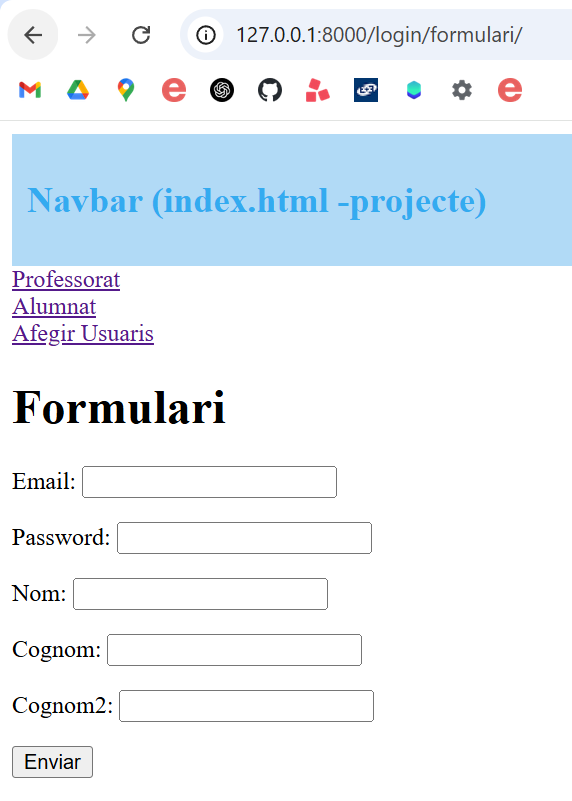
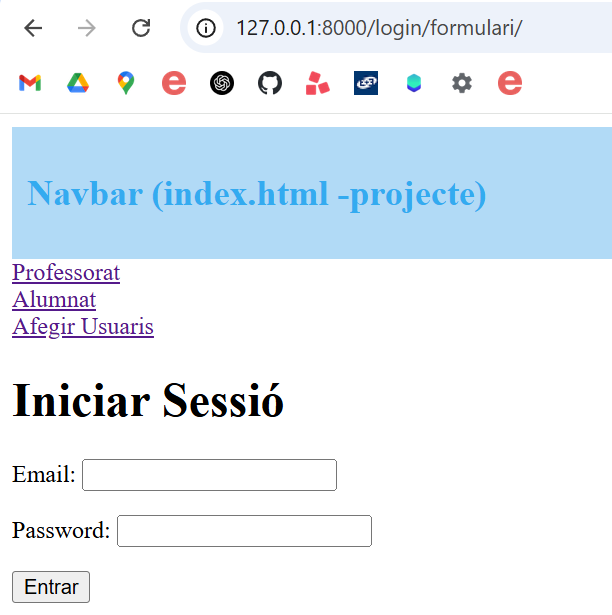
vistes de login sense session

diff --git a/ACTIVITAT_13/TIC_BCN_AR/login/templates/form.html b/ACTIVITAT_13/TIC_BCN_AR/login/templates/form.html
@@ -1,16 +1,20 @@
 {% extends 'index.html' %}
 
 {% block content %}
-<h1>Formulari</h1>
+<h1>Iniciar Sessió</h1>
 
-{% if success %}
-    <p>{{ success }}</p>  <!-- Mensaje de éxito cuando los datos se guardan -->
-{% endif %}
-
-<form action="" method="POST">
+<form action="{% url 'formulari' %}" method="POST">
     {% csrf_token %}
     {{ form.as_p }}
-    <input type="submit">
+    <input type="submit" value="Entrar">
 </form>
+
+{% if messages %}
+    <ul>
+        {% for message in messages %}
+            <li>{{ message }}</li>
+        {% endfor %}
+    </ul>
+{% endif %}
 
 {% endblock %}

diff --git a/ACTIVITAT_13/TIC_BCN_AR/login/templates/inici.html b/ACTIVITAT_13/TIC_BCN_AR/login/templates/inici.html
@@ -1,0 +1,7 @@
+{% extends 'index.html' %}
+
+{% block content %}
+
+<h1> Pàgina d’inici</h1>
+
+{% endblock %}

diff --git a/ACTIVITAT_13/TIC_BCN_AR/login/views.py b/ACTIVITAT_13/TIC_BCN_AR/login/views.py
@@ -1,7 +1,30 @@
-from django.shortcuts import render
-from .forms import formulariPersona
+from django.shortcuts import redirect, render
+from django.contrib import messages
+from .forms import FormulariPersona
+from .models import Login
+
+def inici(request):
+    return render(request, 'inici.html')
 
 def formulari(request):
-    form = formulariPersona()
-    context = {'form':form}
-    return render(request, 'form.html', context)
+    if request.method == 'POST':
+        form = FormulariPersona(request.POST)
+        if form.is_valid():
+            email = form.cleaned_data['email']
+            password = form.cleaned_data['password']
+            
+            try:
+                user = Login.objects.get(email=email)
+                if user.password == password:  
+                 
+                    return redirect('inici')  
+                else:
+                    messages.error(request, 'credencials errònies')
+                    
+            except Login.DoesNotExist:
+                messages.error(request, 'credencials errònies')
+
+    else:
+        form = FormulariPersona()
+
+    return render(request, 'form.html', {'form': form})

diff --git a/ACTIVITAT_13/TIC_BCN_AR/login/forms.py b/ACTIVITAT_13/TIC_BCN_AR/login/forms.py
@@ -1,7 +1,5 @@
-from django.forms import ModelForm 
-from .models import Login
+from django import forms
 
-class formulariPersona(ModelForm):
-    class Meta:
-        model = Login
-        fields = '__all__'
+class FormulariPersona(forms.Form):
+    email = forms.EmailField()
+    password = forms.CharField()

diff --git a/ACTIVITAT_13/TIC_BCN_AR/login/urls.py b/ACTIVITAT_13/TIC_BCN_AR/login/urls.py
@@ -2,5 +2,6 @@ from django.urls import path
 from . import views
 
 urlpatterns = [
-    path('formulari/', views.formulari, name='formulari')
+    path('formulari/', views.formulari, name='formulari'),
+    path('inici/', views.inici, name='inici'),
 ]
